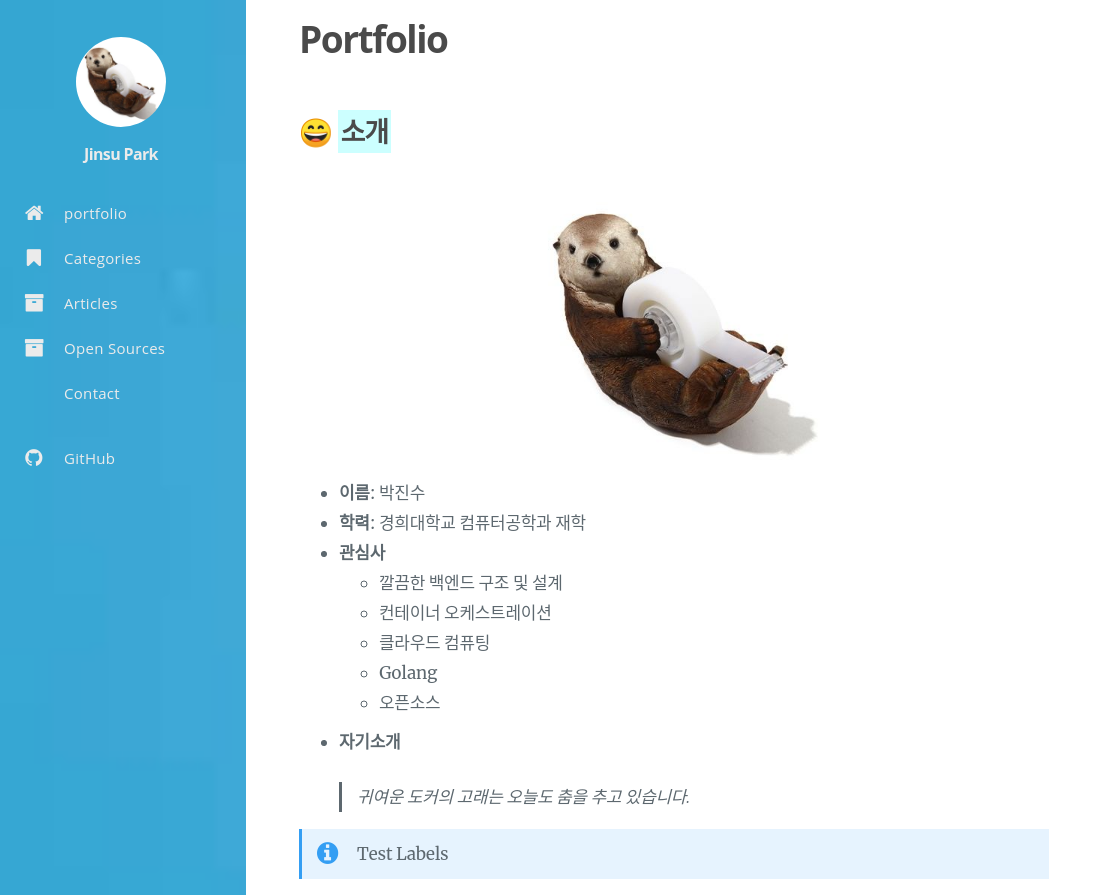
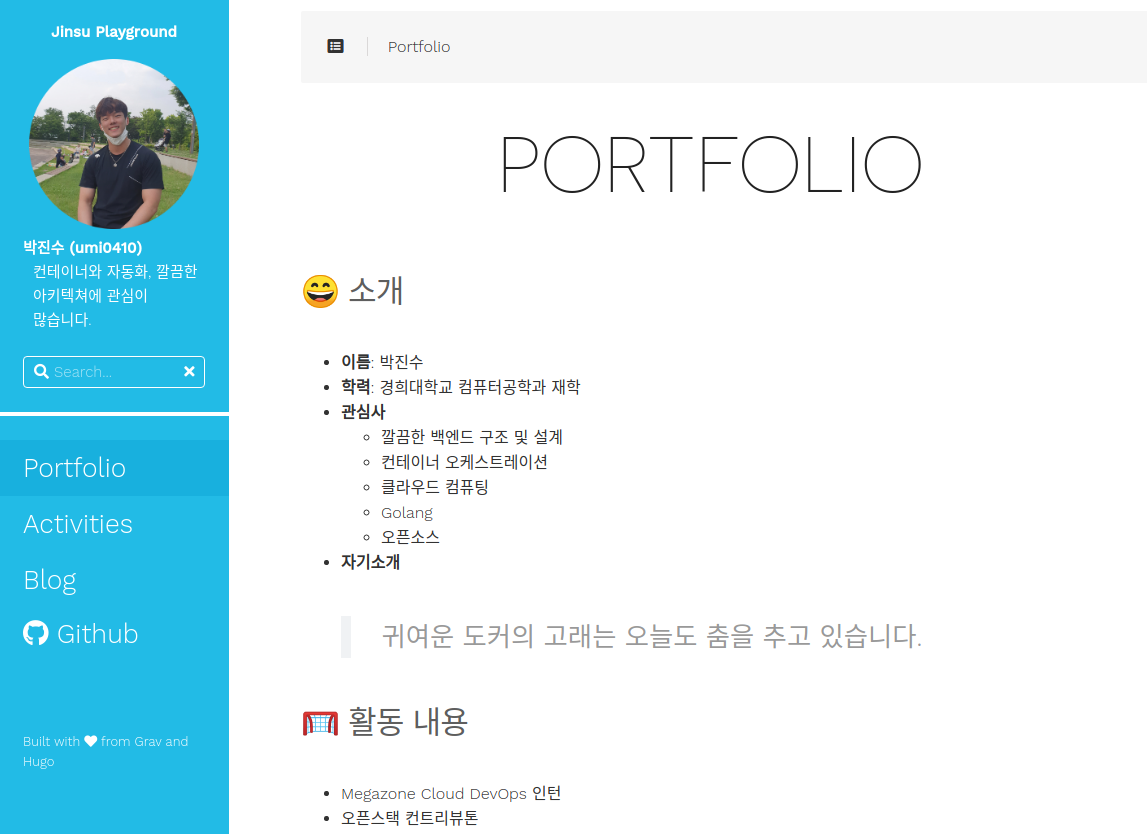
Update: README.md

diff --git a/README.md b/README.md
@@ -1,0 +1,24 @@
+# [umi0410.github.io](https://umi0410.github.io)
+![README_preview.png](static/README_preview.png)
+* themes/hugo-theme-learn 을 바탕으로 몇몇 부분을 수정해서 운영하고있다.
+  * `themes/hugo-theme-learn/layouts/partials/custom-sidebar-profile.html`에 프로필을 추가.
+  * `themes/hugo-theme-learn/layouts/partials/menu.html`에서 해당 사이드바 프로필을 import
+  * `themes/hugo-theme-learn/statics/css/hugo-theme.css`에서 일부 변경
+  * `themes/hugo-theme-learn/statics/css/theme-umi0410.css`에서 custom theme 정의
+  * submodule을 통해 theme을 깔끔하게 이용하고 싶었지만, customization을 위해서는 수정사항을 적용하려다보니 단순 clone을 이용하게됨.
+
+* 개발은 dev 브랜치에서
+* default branch는 master=>dev로 변경했음.
+* 배포 자동화
+  * branch:dev에서 게시글 작성
+  * branch:dev에 push할 경우 Github Action을 통해 빌드
+  * 빌드된 파일은 branch:master에 배포~! (Github Page가 master 브랜치를 바라보기 때문.)
+* 재미삼아 개발 중~!
+
+## Refs
+
+* [Hugo theme learn doc](https://learn.netlify.app/en/)
+
+* [Useful short codes](https://learn.netlify.app/en/shortcodes/)
+
+* [Markdown image resizing](https://learn.netlify.app/en/cont/markdown/#resizing-image)

diff --git a/content/1_portfolio/_index.md b/content/1_portfolio/_index.md
@@ -5,9 +5,6 @@ weight: 1
 chapter: false
 pre: ""
 ---
-<p align="center">
-  <img id="portfolio_profile_img" src="/media/profile.png?width=300px">
-</p>
 
 ### 😄 소개
 
